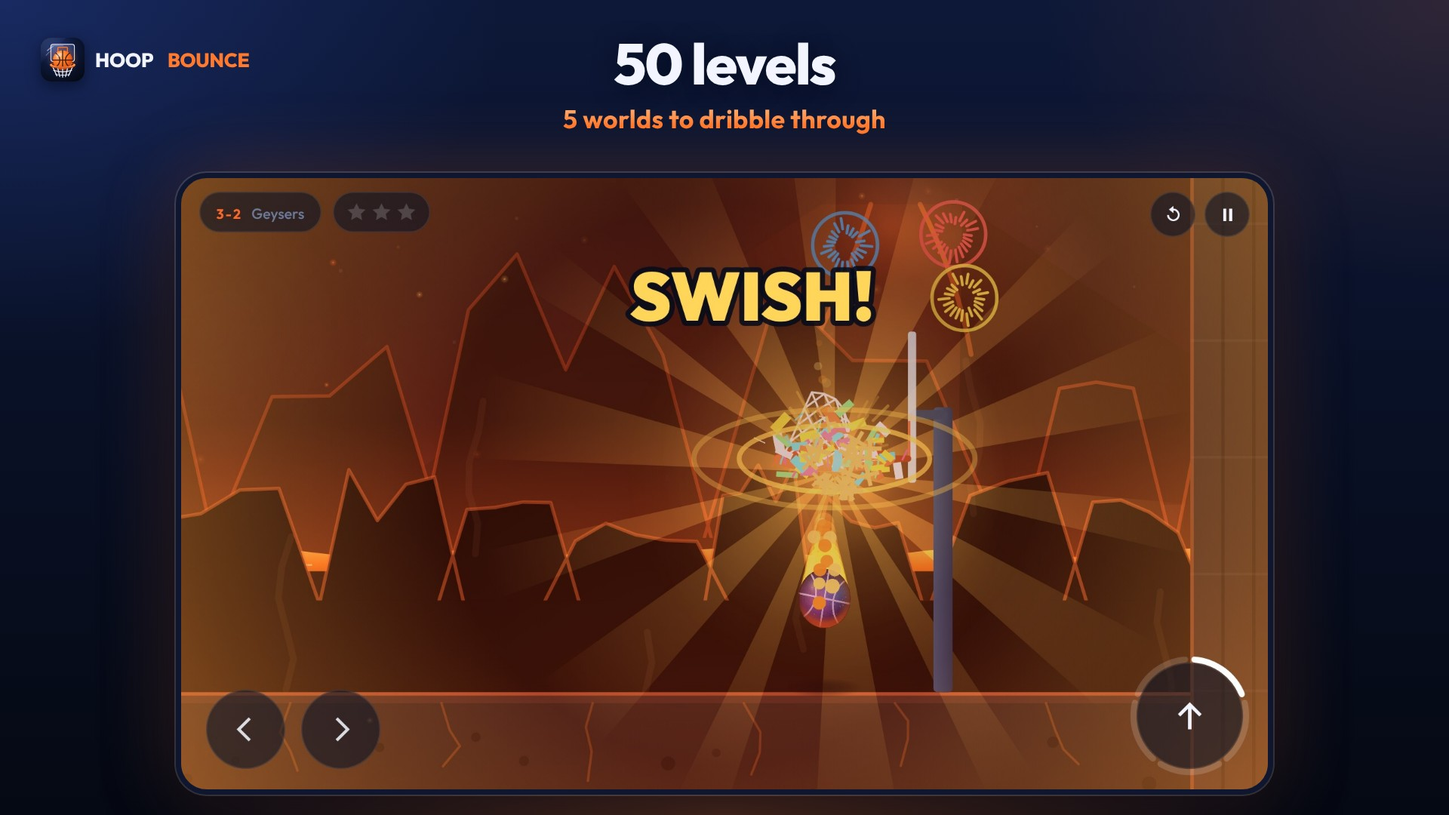
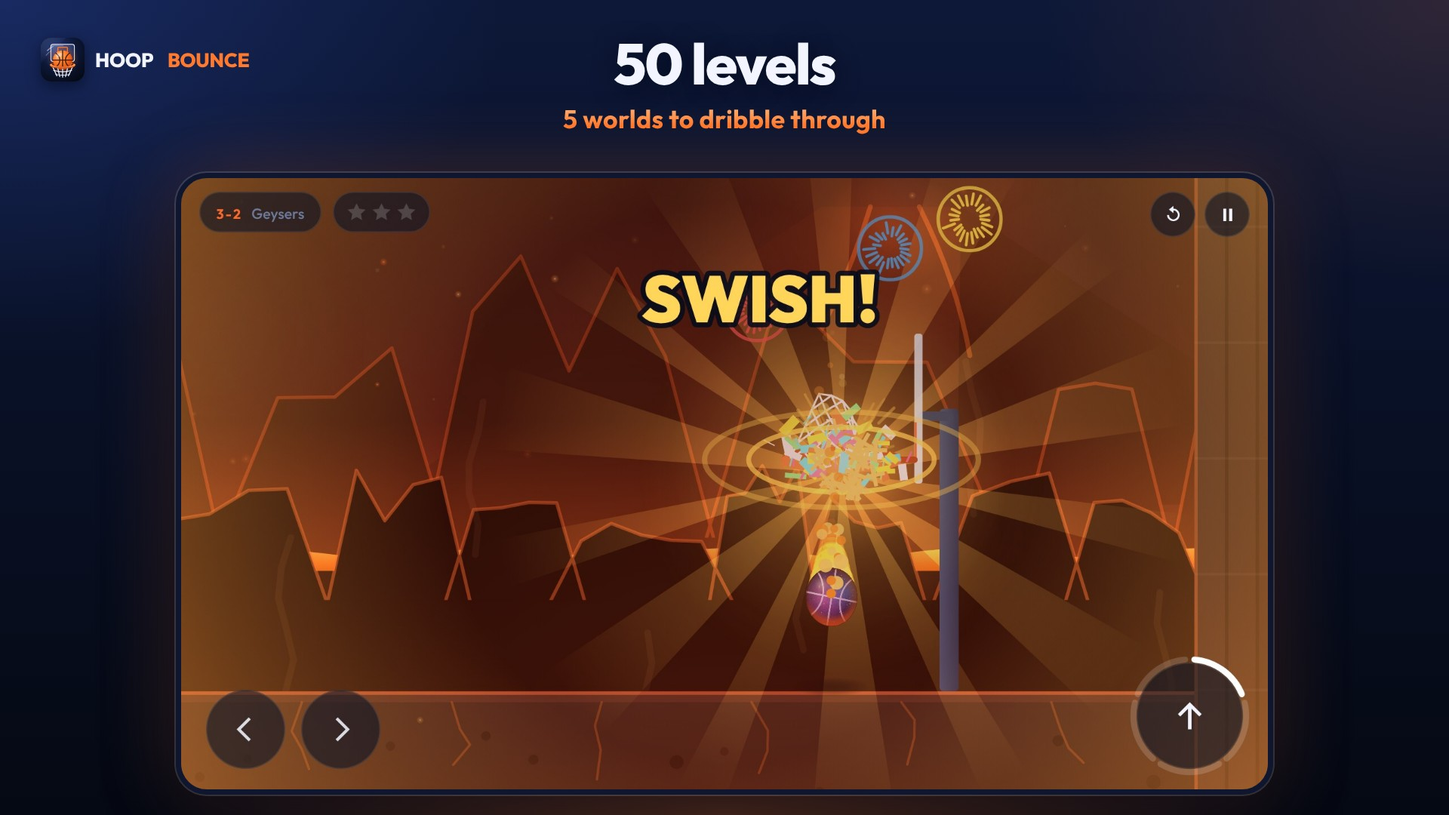
Fiche Google Play : 18 captures, dont les 5 mondes avec leurs pièges
- 10 captures de monde (2 par monde) titrées FR/EN/ES, plusieurs pièges à l'image
- screenshots.mjs : scènes de monde (cadrage, image figée), fichiers servis par Playwright, numérotation 01-18
- find-traps.mjs : repère les endroits riches en pièges
- SCREENSHOTS.md : répartition téléphone / tablette 7" / tablette 10" ; docs de la fiche et PROJECT.md à jour

Claude-Session: https://claude.ai/code/session_01Y34DbnMVTkq3CwrsUMcnBD

diff --git a/hoop-bounce/store/screenshots/raw/fr/sheet.html b/hoop-bounce/store/screenshots/raw/fr/sheet.html
@@ -1,0 +1,1 @@
+<body style="margin:0;background:#111;display:grid;grid-template-columns:1fr 1fr;gap:6px;padding:6px;font:14px sans-serif;color:#fff"><div><img src="file:///home/user/Videojuego/hoop-bounce/store/screenshots/raw/fr/02-city-a.jpg" style="width:100%"><div>02-city-a</div></div><div><img src="file:///home/user/Videojuego/hoop-bounce/store/screenshots/raw/fr/03-snow-a.jpg" style="width:100%"><div>03-snow-a</div></div><div><img src="file:///home/user/Videojuego/hoop-bounce/store/screenshots/raw/fr/04-volcano-a.jpg" style="width:100%"><div>04-volcano-a</div></div><div><img src="file:///home/user/Videojuego/hoop-bounce/store/screenshots/raw/fr/05-forest-a.jpg" style="width:100%"><div>05-forest-a</div></div><div><img src="file:///home/user/Videojuego/hoop-bounce/store/screenshots/raw/fr/06-space-a.jpg" style="width:100%"><div>06-space-a</div></div><div><img src="file:///home/user/Videojuego/hoop-bounce/store/screenshots/raw/fr/10-ghost.jpg" style="width:100%"><div>10-ghost</div></div><div><img src="file:///home/user/Videojuego/hoop-bounce/store/screenshots/raw/fr/14-city-b.jpg" style="width:100%"><div>14-city-b</div></div><div><img src="file:///home/user/Videojuego/hoop-bounce/store/screenshots/raw/fr/15-snow-b.jpg" style="width:100%"><div>15-snow-b</div></div><div><img src="file:///home/user/Videojuego/hoop-bounce/store/screenshots/raw/fr/16-volcano-b.jpg" style="width:100%"><div>16-volcano-b</div></div><div><img src="file:///home/user/Videojuego/hoop-bounce/store/screenshots/raw/fr/17-forest-b.jpg" style="width:100%"><div>17-forest-b</div></div><div><img src="file:///home/user/Videojuego/hoop-bounce/store/screenshots/raw/fr/18-space-b.jpg" style="width:100%"><div>18-space-b</div></div><div><img src="file:///home/user/Videojuego/hoop-bounce/store/screenshots/raw/fr/01-gameplay.jpg" style="width:100%"><div>01-gameplay</div></div></body>

diff --git a/hoop-bounce/store/screenshots/fr/sheet.html b/hoop-bounce/store/screenshots/fr/sheet.html
@@ -1,0 +1,1 @@
+<body style="margin:0;background:#111;display:grid;grid-template-columns:1fr 1fr;gap:6px;padding:6px;font:14px sans-serif;color:#fff"><div><img src="file:///home/user/Videojuego/hoop-bounce/store/screenshots/fr/11-chest.jpg" style="width:100%"><div>11-chest</div></div><div><img src="file:///home/user/Videojuego/hoop-bounce/store/screenshots/fr/12-achievements.jpg" style="width:100%"><div>12-achievements</div></div><div><img src="file:///home/user/Videojuego/hoop-bounce/store/screenshots/fr/13-collection.jpg" style="width:100%"><div>13-collection</div></div><div><img src="file:///home/user/Videojuego/hoop-bounce/store/screenshots/fr/14-city-b.jpg" style="width:100%"><div>14-city-b</div></div><div><img src="file:///home/user/Videojuego/hoop-bounce/store/screenshots/fr/15-snow-b.jpg" style="width:100%"><div>15-snow-b</div></div><div><img src="file:///home/user/Videojuego/hoop-bounce/store/screenshots/fr/16-volcano-b.jpg" style="width:100%"><div>16-volcano-b</div></div><div><img src="file:///home/user/Videojuego/hoop-bounce/store/screenshots/fr/17-forest-b.jpg" style="width:100%"><div>17-forest-b</div></div><div><img src="file:///home/user/Videojuego/hoop-bounce/store/screenshots/fr/18-space-b.jpg" style="width:100%"><div>18-space-b</div></div></body>

diff --git a/hoop-bounce/store/screenshots/sheet.html b/hoop-bounce/store/screenshots/sheet.html
@@ -1,0 +1,1 @@
+<body style="margin:0;background:#111;display:grid;grid-template-columns:1fr 1fr;gap:6px;padding:6px;font:14px sans-serif;color:#fff"><div><img src="file:///home/user/Videojuego/hoop-bounce/store/screenshots/fr/04-volcano-a.jpg" style="width:100%"><div>fr/04-volcano-a</div></div><div><img src="file:///home/user/Videojuego/hoop-bounce/store/screenshots/fr/05-forest-a.jpg" style="width:100%"><div>fr/05-forest-a</div></div><div><img src="file:///home/user/Videojuego/hoop-bounce/store/screenshots/en/02-city-a.jpg" style="width:100%"><div>en/02-city-a</div></div><div><img src="file:///home/user/Videojuego/hoop-bounce/store/screenshots/es/06-space-a.jpg" style="width:100%"><div>es/06-space-a</div></div><div><img src="file:///home/user/Videojuego/hoop-bounce/store/screenshots/en/10-ghost.jpg" style="width:100%"><div>en/10-ghost</div></div><div><img src="file:///home/user/Videojuego/hoop-bounce/store/screenshots/es/18-space-b.jpg" style="width:100%"><div>es/18-space-b</div></div></body>

diff --git a/hoop-bounce/PROJECT.md b/hoop-bounce/PROJECT.md
@@ -520,7 +520,7 @@ présentation (son, vibrations, effets, caméra, interface) écoute. Les deux re
 | `tools/economy-sim.mjs` | ★ Phase 4 : **simulateur de l'économie** : des joueurs types (actif, occasionnel ; avec ou sans publicités) jouent N jours avec le vrai code (porte-monnaie, coffres, calendrier, roulette, missions, succès, Pass, boutique) et une horloge simulée. `node tools/economy-sim.mjs 30`. |
 | `tools/route-merge.mjs` | Fusionne les fichiers partiels de `route-check --part` dans `tests/fixtures/routes.json`. |
 | `tools/build-release.mjs` | ★ **Version publiée** : construit `dist/HoopBounce-<version>-release.aab` (Android App Bundle au format protobuf d'aapt2, module `base`, `BundleConfig.pb`, signé avec jarsigner) et l'APK release de la même version (apksigner), avec l'enveloppe `native/release/` et la clé d'import `native/release/keys/` ; vérifie identifiant, versions, clé (`native/release/upload-key.sha256`), permissions et contenu identique APK / AAB ; version sans SDK publicitaire (boutons de publicité masqués). |
-| `store/tools/*.mjs` | Fiche Google Play : `render-assets` (icônes Noël et intemporelle, bannières, icônes Android), `screenshots` (8 captures titrées, 3 langues), `make-ghost` (vrai fantôme pour la capture), `check-listing` (longueurs des textes). |
+| `store/tools/*.mjs` | Fiche Google Play : `render-assets` (icônes Noël et intemporelle, bannières, icônes Android), `screenshots` (18 captures titrées, 3 langues), `find-traps` (endroits riches en pièges), `make-ghost` (vrai fantôme pour la capture), `check-listing` (longueurs des textes). |
 | `tools/level-run.mjs` | ★ Phase 2 : joue un niveau **en entier** (tous les passages à la suite, du départ au panier) et mesure la durée experte → durée joueur estimée (× 1,4), comparée à la fourchette du monde. Utilisé par `tests/routes.test.mjs`. |
 | `tools/level-map.mjs` | ★ Phase 2 : plan PNG d'un niveau (géométrie, pièges, étoiles, panier) avec la trajectoire du pilote et les morts. |
 | `tools/tune.mjs` | ★ Phase 2 : balaie toutes les fenêtres de départ d'un passage chronométré (`--full` : état réel d'arrivée) pour choisir une fenêtre sûre. |
@@ -2217,9 +2217,13 @@ effets, illustrations, règles du logo (HOOP blanc / BOUNCE orange, toujours en 
   classique, ronde et adaptative).
 - **Bannière** 1024 × 500 (FR / EN / ES, Noël et intemporelle) : salle de basket la nuit, logo HOOP / BOUNCE,
   signature, trois repères (50 niveaux · 50 Trickshots · Hoop Pass), centre dégagé pour le bouton de la vidéo.
-- **8 captures** 1920 × 1080 avec titres marketing (FR / EN / ES) : 50 niveaux, 50 Trickshots, Débloquez des
-  skins, Complétez le Hoop Pass, Défiez votre fantôme (vrai fantôme du pilote expert), Ouvrez des coffres,
-  Relevez des défis, Votre collection.
+- **18 captures** 1920 × 1080 avec titres marketing (FR / EN / ES) : 50 niveaux ; **les 5 mondes avec leurs
+  pièges, 2 vues chacun** (Ville : presse et laser, scies ; Neige : blocs écraseurs, pont de glace qui tombe ;
+  Volcan : geysers en éruption, canons et boule de feu ; Forêt : rondin à pointes et tronc qui roule, rivière
+  aux lianes ; Espace : trou noir et plateformes clignotantes, gravité inversée avec astéroïdes et pics) ;
+  50 Trickshots, Complétez le Hoop Pass, Débloquez des skins, Défiez votre fantôme (vrai fantôme du pilote
+  expert), Ouvrez des coffres, Relevez des défis, Votre collection. Google Play en accepte 8 par type
+  d'appareil : répartition téléphone / tablette 7" / tablette 10" dans `store/SCREENSHOTS.md` (les 18 servent).
 - **Vidéo** : storyboard de 25 s (`store/VIDEO.md`) — logo, gameplay, Trickshot, skins et coffre, Hoop Pass,
   fantôme, succès, écran final.
 
@@ -2634,9 +2638,9 @@ Légende : ✅ Terminé · 🟡 En cours · 🔴 À faire
 
 ### Phase 9 — Publication 🟡 (tout est prêt, actions Play Console restantes)
 - ✅ Identité visuelle officielle (`store/BRAND.md`) ; icône refaite (Noël + intemporelle) ; bannières FR / EN / ES
-- ✅ 8 captures titrées × 3 langues ; storyboard vidéo ; textes FR / EN / ES et référencement
+- ✅ 18 captures titrées × 3 langues (dont les 5 mondes et leurs pièges) ; storyboard vidéo ; textes FR / EN / ES et référencement
 - ✅ Politique de confidentialité conforme à la 1.0.0 ; réponses aux formulaires (IARC, sécurité des données…)
-- ✅ **AAB release signé** (1.0.0, versionCode 15) + APK release de la même version ; clé d'import créée
+- ✅ **AAB release signé** (1.0.0, versionCode 16) + APK release de la même version ; clé d'import créée
 - ✅ `store/PUBLICATION.md` : ce qui est fait, ce qui reste
 - 🔴 Porteur du projet : sauvegarder la clé d'import, e-mail public, héberger la politique, remplir la Console
 - 🔴 Test fermé (12 testeurs × 14 jours si compte personnel récent), puis production
@@ -2648,7 +2652,7 @@ Légende : ✅ Terminé · 🟡 En cours · 🔴 À faire
 
 ### Fait ✅
 - ✅ **Préparation de la publication Google Play** : identité visuelle, icône (Noël + intemporelle), bannières,
-  8 captures titrées × 3 langues, storyboard vidéo, textes et référencement, politique de confidentialité,
+  18 captures titrées × 3 langues, storyboard vidéo, textes et référencement, politique de confidentialité,
   réponses aux formulaires, **AAB et APK release 1.0.0**, `store/PUBLICATION.md`
 - ✅ **Phase de finition (polish)** : scène de Noël vivante, neige réaliste, pression unifiée des boutons,
   pièce / gemme / étoile redessinées, coffres par rareté, traînée des ballons rares, nouveaux sons, fondus de
@@ -3058,6 +3062,36 @@ Légende : ✅ Terminé · 🟡 En cours · 🔴 À faire
 ---
 
 ## 11. Journal des modifications
+
+### 25/11/2026 — Fiche Google Play : 18 captures, dont les 5 mondes avec leurs pièges
+
+> À la demande du porteur du projet : plus de captures, chaque monde montré avec plusieurs pièges à l'image, en
+> plus du Hoop Pass et des autres écrans. Le jeu n'est pas modifié (pas de nouvelle version APK / AAB).
+
+**Ajouté**
+- 10 captures de monde (2 par monde), titrées en FR / EN / ES, chacune avec 2 à 3 pièges visibles :
+  Ville 1-9 (presse à pointes + laser) et 1-7 (trois scies) ; Neige 2-7 (blocs de glace écraseurs) et 2-4 (pont de
+  dalles qui tombent, pics) ; Volcan 3-7 (trois geysers en éruption, lave) et 3-4 (canons, boule de feu, dalles
+  fragiles) ; Forêt 4-10 (rondin à pointes, tronc qui roule) et 4-2 (lianes au-dessus de la rivière) ; Espace 5-9
+  (trou noir, plateformes qui clignotent) et 5-8 (gravité inversée, astéroïdes, tapis de pics).
+- `store/tools/find-traps.mjs` : repère les fenêtres de 17 unités où le plus de pièges différents sont visibles.
+
+**Modifié**
+- `store/tools/screenshots.mjs` : scènes de monde (`spot` : ballon posé, caméra tenue sur les pièges, hors des
+  boutons tactiles ; textes d'aide masqués ; image figée au bon moment — geysers à pleine hauteur, boule de feu
+  en vol) ; fichiers servis par Playwright (plus de serveur local) ; captures renumérotées 01 → 18 (Trickshot 07,
+  Pass 08, skins 09, fantôme 10, coffre 11, succès 12, collection 13) ; plus de texte d'aide sur la capture du
+  fantôme.
+- `store/SCREENSHOTS.md` : les 18 captures et la répartition conseillée (8 au plus par appareil) : téléphone
+  01·02·04·07·08·03·05·06, tablette 7" 16·14·09·15·10·17·11·18, tablette 10" 01·07·08·09·12·13·11·10.
+- `store/LISTING.md`, `CHECKLIST.md`, `PUBLICATION.md`, `README.md` : 18 captures et leur répartition.
+
+**Vérifié**
+- 18 × 3 langues relues image par image : ballon visible et hors des boutons, pièges lisibles, aucun texte d'aide,
+  titres dans la police Outfit ; format 1920 × 1080 (règles Google Play inchangées).
+
+**Reste à faire**
+- Porteur du projet : envoyer les captures dans la Play Console selon la répartition de `store/SCREENSHOTS.md`.
 
 ### 25/11/2026 — Trickshot : retour au fonctionnement d'origine du bouton ↺ Recommencer (APK de test v15, AAB 1.0.0 build 16)
 

diff --git a/hoop-bounce/store/SCREENSHOTS.md b/hoop-bounce/store/SCREENSHOTS.md
@@ -2,8 +2,10 @@
 
 ## Ce qui est prêt
 
-**8 captures** prises dans le **vrai jeu**, en 3 langues, au format **1920 × 1080** (paysage 16:9, JPEG), chacune
-avec un **titre marketing** et un sous-titre, dans l'identité du jeu (`store/BRAND.md`) :
+**18 captures** prises dans le **vrai jeu**, en 3 langues, au format **1920 × 1080** (paysage 16:9, JPEG), chacune
+avec un **titre marketing** et un sous-titre, dans l'identité du jeu (`store/BRAND.md`) : les **5 mondes avec
+leurs pièges** (2 vues par monde), le gameplay, le Trickshot, le Hoop Pass, les skins, le Mode Fantôme, les
+coffres, les succès et la collection.
 
 | Dossier | Contenu |
 |---|---|
@@ -12,24 +14,52 @@ avec un **titre marketing** et un sous-titre, dans l'identité du jeu (`store/BR
 
 | N° | Fichier | Titre (FR · EN · ES) | Ce qu'on voit |
 |---|---|---|---|
-| 1 | `01-gameplay.jpg` | **50 niveaux** · 50 levels · 50 niveles | Monde 3 (Volcan) : panier « SWISH ! », rayons, confettis |
-| 2 | `02-trickshot.jpg` | **50 Trickshots** · 50 trickshots · 50 trickshots | carte 30 « Portails en chaîne », le ballon en plein vol vers le panier |
-| 3 | `03-skins.jpg` | **Débloquez des skins** · Unlock skins · Desbloquea skins | boutique, ballon légendaire « Diamant » en aperçu, objets légendaires |
-| 4 | `04-pass.jpg` | **Complétez le Hoop Pass** · Complete the Hoop Pass · Completa el Hoop Pass | Hoop Pass de Noël, niveau 10, récompenses à récupérer |
-| 5 | `05-ghost.jpg` | **Défiez votre fantôme** · Race your ghost · Reta a tu fantasma | niveau 1-2 : le joueur sur le trampoline, son fantôme bleuté devant lui |
-| 6 | `06-chest.jpg` | **Ouvrez des coffres** · Open chests · Abre cofres | ouverture d'un coffre légendaire (rayons, éclair, pièces) |
-| 7 | `07-achievements.jpg` | **Relevez des défis** · Take on challenges · Supera desafíos | page Succès (62 succès, catégories, récompenses) |
-| 8 | `08-collection.jpg` | **Votre collection** · Your collection · Tu colección | collection : ballons, rebonds, traînées, objet légendaire |
+| 1 | `01-gameplay.jpg` | **50 niveaux** · 50 levels · 50 niveles | Volcan 3-2 : panier « SWISH ! », rayons, confettis |
+| 2 | `02-city-a.jpg` | **Monde 1 · La Ville** · World 1 · The City · Mundo 1 · La Ciudad | 1-9 : presse à pointes, laser vertical, 2 étoiles |
+| 3 | `03-snow-a.jpg` | **Monde 2 · La Neige** · World 2 · The Snow · Mundo 2 · La Nieve | 2-7 : deux blocs de glace écraseurs, étoile |
+| 4 | `04-volcano-a.jpg` | **Monde 3 · Le Volcan** · World 3 · The Volcano · Mundo 3 · El Volcán | 3-7 : trois geysers de feu en éruption, lave, dalles qui s'effondrent |
+| 5 | `05-forest-a.jpg` | **Monde 4 · La Forêt** · World 4 · The Forest · Mundo 4 · El Bosque | 4-10 : rondin à pointes qui se balance, tronc qui roule |
+| 6 | `06-space-a.jpg` | **Monde 5 · L'Espace** · World 5 · Space · Mundo 5 · El Espacio | 5-9 : trou noir, plateformes qui clignotent, vide |
+| 7 | `07-trickshot.jpg` | **50 Trickshots** · 50 trickshots · 50 trickshots | carte 30 « Portails en chaîne », le ballon en plein vol vers le panier |
+| 8 | `08-pass.jpg` | **Complétez le Hoop Pass** · Complete the Hoop Pass · Completa el Hoop Pass | Hoop Pass de Noël, niveau 10, récompenses à récupérer |
+| 9 | `09-skins.jpg` | **Débloquez des skins** · Unlock skins · Desbloquea skins | boutique, ballon légendaire « Diamant » en aperçu, objets légendaires |
+| 10 | `10-ghost.jpg` | **Défiez votre fantôme** · Race your ghost · Reta a tu fantasma | niveau 1-2 : le joueur sur le trampoline, son fantôme bleuté devant lui |
+| 11 | `11-chest.jpg` | **Ouvrez des coffres** · Open chests · Abre cofres | ouverture d'un coffre légendaire (rayons, éclair, pièces) |
+| 12 | `12-achievements.jpg` | **Relevez des défis** · Take on challenges · Supera desafíos | page Succès (62 succès, catégories, récompenses) |
+| 13 | `13-collection.jpg` | **Votre collection** · Your collection · Tu colección | collection : ballons, rebonds, traînées, objet légendaire |
+| 14 | `14-city-b.jpg` | **Les scies de la Ville** · City saws · Las sierras de la Ciudad | 1-7 : trois scies circulaires qui montent et descendent |
+| 15 | `15-snow-b.jpg` | **Le pont de glace** · The ice bridge · El puente de hielo | 2-4 : dalles de glace qui tombent, pics au bout |
+| 16 | `16-volcano-b.jpg` | **Les canons du Volcan** · Volcano cannons · Los cañones del Volcán | 3-4 : canons dans la lave, boule de feu, dalles fragiles |
+| 17 | `17-forest-b.jpg` | **La rivière aux lianes** · The vine river · El río de lianas | 4-2 : deux lianes au-dessus de la rivière |
+| 18 | `18-space-b.jpg` | **Le monde à l'envers** · Upside-down world · El mundo al revés | 5-8 : ballon collé au plafond (gravité inversée), astéroïdes, tapis de pics |
 
-Ordre conseillé sur la fiche : **1 → 8** (les 3 premières sont les plus vues : gameplay, Trickshot, skins).
-Téléphone **et** tablettes 7" / 10" : les mêmes 8 fichiers (le format 1920 × 1080 convient aux deux).
+## Répartition conseillée sur la fiche
+
+Google Play accepte **8 captures au plus par type d'appareil** (téléphone, tablette 7", tablette 10") ; le format
+1920 × 1080 convient aux trois. Les 18 captures se répartissent ainsi (les 3 premières de chaque liste sont les
+plus vues) :
+
+| Type d'appareil | Captures, dans l'ordre | Idée |
+|---|---|---|
+| **Téléphone** | 01 · 02 · 04 · 07 · 08 · 03 · 05 · 06 | le jeu d'abord : gameplay, les 5 mondes et leurs pièges, Trickshot, Hoop Pass |
+| **Tablette 7"** | 16 · 14 · 09 · 15 · 10 · 17 · 11 · 18 | les autres pièges des mondes, skins, fantôme, coffres |
+| **Tablette 10"** | 01 · 07 · 08 · 09 · 12 · 13 · 11 · 10 | les modes et la collection : Trickshot, Pass, skins, succès, collection, coffres |
+
+Ainsi, les 18 images sont toutes utilisées. S'il faut une seule liste (par exemple pour un autre store) : **1 → 8**.
 
 ## Les refaire
 
-`node store/tools/screenshots.mjs fr` (puis `en`, `es`). Le script prépare un profil de joueur crédible (Ville et
-Neige terminées, 6 niveaux du Volcan, 48 250 pièces, 18 Trickshots, Hoop Pass niveau 10, objets rares et
-légendaires équipés) et un **vrai fantôme** enregistré par le pilote expert (`node store/tools/make-ghost.mjs
-city-02` → `store/tools/data/ghost-city-02.json`), puis prend chaque capture au bon moment.
+`node store/tools/screenshots.mjs fr` (puis `en`, `es`) — environ 1 min 30 par langue. Le script prépare un profil
+de joueur crédible (Ville et Neige terminées, 6 niveaux du Volcan, 48 250 pièces, 18 Trickshots, Hoop Pass niveau
+10, objets rares et légendaires équipés) et un **vrai fantôme** enregistré par le pilote expert
+(`node store/tools/make-ghost.mjs city-02` → `store/tools/data/ghost-city-02.json`), puis prend chaque capture au
+bon moment.
+
+Pour les scènes de monde (`spot` dans `SCENES`) : le ballon est posé à un endroit sûr, la caméra cadre plusieurs
+pièges à la fois, hors des boutons tactiles, les textes d'aide sont masqués, et l'image est **figée** au moment
+voulu (geysers à pleine hauteur, boule de feu en vol) avant la capture. Pour trouver d'autres endroits riches en
+pièges : `node store/tools/find-traps.mjs [monde]` (les fenêtres de 17 unités qui montrent le plus de pièges
+différents).
 
 ## Règles de Google Play (respectées)
 

diff --git a/hoop-bounce/store/PUBLICATION.md b/hoop-bounce/store/PUBLICATION.md
@@ -16,7 +16,7 @@
 | **Icône** | 512 × 512 : version **Noël** (neige discrète) et version **intemporelle** | `store/icon/` |
 | | Icônes de l'application (classique, ronde, adaptative) : version intemporelle | dans l'AAB |
 | **Bannière** | 1024 × 500, FR / EN / ES, versions Noël et intemporelle | `store/feature-graphic/` |
-| **Captures** | 8 captures 1920 × 1080 avec titres marketing, FR / EN / ES | `store/screenshots/` |
+| **Captures** | 18 captures 1920 × 1080 avec titres marketing, FR / EN / ES : les 5 mondes et leurs pièges (2 vues chacun), Trickshot, Hoop Pass, skins, fantôme, coffres, succès, collection | `store/screenshots/` |
 | **Vidéo** | Storyboard de 25 s, plan par plan | `store/VIDEO.md` |
 | **Textes** | Nom, description courte, description complète (FR / EN / ES), longueurs vérifiées | `store/LISTING.md` |
 | **Référencement** | Mots-clés principaux et secondaires, catégorie, tags | `store/LISTING.md` § Référencement |
@@ -49,7 +49,8 @@ Environ une heure dans la Play Console, puis 14 jours de test fermé si le compt
 5. **Contenu de l'application** : remplir les formulaires avec les réponses de `store/CHECKLIST.md` § 4 à 6
    (politique de confidentialité, accès, annonces = Non, public cible 13+, IARC, sécurité des données = aucune).
 6. **Fiche du Store** : coller les textes de `store/LISTING.md`, envoyer l'icône (Noël), la bannière (Noël) et les
-   8 captures ; ajouter les traductions EN et ES ; catégorie **Arcade**, tags, coordonnées.
+   captures (8 par type d'appareil : téléphone, tablette 7", tablette 10" — répartition dans `store/SCREENSHOTS.md`) ;
+   ajouter les traductions EN et ES ; catégorie **Arcade**, tags, coordonnées.
 7. **Test fermé** (compte personnel récent) : créer la piste, importer l'AAB, inviter 12 testeurs, attendre
    14 jours, demander l'accès à la production.
 8. **Production** : créer la release avec le même AAB (ou un AAB au versionCode supérieur s'il y a eu des

diff --git a/hoop-bounce/store/CHECKLIST.md b/hoop-bounce/store/CHECKLIST.md
@@ -14,7 +14,7 @@ Légende : ✅ **prêt** dans le projet · ✍ **à renseigner** dans la Play
 | Clé d'import (upload key) + mot de passe | ✅ 🔑 | `native/release/keys/` (non versionné) — **à copier en lieu sûr** |
 | Icône 512 × 512 (Noël + intemporelle) | ✅ | `store/icon/icon-512-winter.png` · `icon-512.png` |
 | Bannière 1024 × 500 (Noël + intemporelle, FR/EN/ES) | ✅ | `store/feature-graphic/` |
-| 8 captures 1920 × 1080 (FR/EN/ES) | ✅ | `store/screenshots/{fr,en,es}/` |
+| 18 captures 1920 × 1080 (FR/EN/ES) : 5 mondes et leurs pièges, modes, Pass… | ✅ | `store/screenshots/{fr,en,es}/` |
 | Nom, description courte, description complète (FR/EN/ES) | ✅ ✍ | `store/LISTING.md` |
 | Vidéo YouTube (facultative) | 🔑 | storyboard : `store/VIDEO.md` |
 | Catégorie, tags | ✍ | Jeux › Arcade ; tags : `store/LISTING.md` |
@@ -110,7 +110,8 @@ partagés avec Google pour la publicité) **avant** l'envoi de cette mise à jou
 - [ ] Nom, descriptions : `store/LISTING.md` (FR par défaut, puis Traductions › anglais (en-US), espagnol (es-ES)).
 - [ ] Icône : `store/icon/icon-512-winter.png` pendant la saison de Noël, puis `icon-512.png`.
 - [ ] Bannière : `store/feature-graphic/feature-graphic-winter-fr.png` (et `-en`, `-es` dans les traductions).
-- [ ] Captures téléphone : `store/screenshots/fr/01 … 08` ; tablettes 7" et 10" : les mêmes.
+- [ ] Captures (8 au plus par appareil, répartition dans `store/SCREENSHOTS.md`) : téléphone 01, 02, 04, 07, 08, 03,
+      05, 06 ; tablette 7" 16, 14, 09, 15, 10, 17, 11, 18 ; tablette 10" 01, 07, 08, 09, 12, 13, 11, 10.
 - [ ] Vidéo : lien YouTube (facultatif, `store/VIDEO.md`).
 - [ ] Paramètres du Store : catégorie **Arcade**, tags (`store/LISTING.md`), coordonnées (§ 2).
 

diff --git a/hoop-bounce/store/README.md b/hoop-bounce/store/README.md
@@ -6,7 +6,7 @@
 | `CHECKLIST.md` | Checklist complète : fiche, contenu de l'application, classification, sécurité des données, version, AAB, tests |
 | `LISTING.md` | Nom, description courte, description complète (FR, EN, ES), référencement (ASO), catégorie, tags |
 | `BRAND.md` | Identité visuelle officielle : palette, typographie, boutons, cartes, effets, illustrations, icône |
-| `SCREENSHOTS.md` | Les 8 captures, leurs titres, l'ordre conseillé, comment les refaire |
+| `SCREENSHOTS.md` | Les 18 captures (5 mondes et leurs pièges, modes, Pass…), leurs titres, la répartition téléphone / tablettes, comment les refaire |
 | `VIDEO.md` | Storyboard de la vidéo de 25 s |
 | `icon/` | Icône Google Play 512 × 512 : `icon-512-winter.png` (saison de Noël), `icon-512.png` (intemporelle) |
 | `feature-graphic/` | Bannière 1024 × 500 (FR, EN, ES) : `feature-graphic-winter-*.png` (Noël) et `feature-graphic-*.png` |
@@ -16,6 +16,7 @@
 | `tools/render-assets.mjs` | Régénère icônes, bannières, icônes et écrans de démarrage Android |
 | `tools/screenshots.mjs` | Régénère les captures dans le vrai jeu (`node store/tools/screenshots.mjs fr`) |
 | `tools/make-ghost.mjs` | Enregistre un vrai fantôme (pilote expert) pour la capture du Mode Fantôme |
+| `tools/find-traps.mjs` | Repère dans les niveaux les endroits où le plus de pièges sont visibles à la fois (captures des mondes) |
 | `tools/check-listing.mjs` | Vérifie les longueurs des textes de la fiche |
 
 Construction de la version publiée : `node tools/build-release.mjs` → `dist/HoopBounce-1.0.0-16-release.aab` (Google

diff --git a/hoop-bounce/store/LISTING.md b/hoop-bounce/store/LISTING.md
@@ -203,7 +203,7 @@ icône ou d'autres captures quand le jeu aura des visiteurs.
 |---|---|
 | Icône (512 × 512, PNG 32 bits) | Saison de Noël : `store/icon/icon-512-winter.png` · après Noël : `store/icon/icon-512.png` |
 | Bannière (1024 × 500, PNG 24 bits) | Saison de Noël : `store/feature-graphic/feature-graphic-winter-<langue>.png` · après Noël : `feature-graphic-<langue>.png` |
-| Captures téléphone (8, 1920 × 1080) | `store/screenshots/<langue>/01 … 08` (ordre : `store/SCREENSHOTS.md`) |
-| Captures tablettes 7" et 10" (facultatives) | les mêmes 8 fichiers (16:9, 1920 × 1080 : acceptés pour les tablettes) |
+| Captures téléphone (8 au plus, 1920 × 1080) | `store/screenshots/<langue>/` : 01, 02, 04, 07, 08, 03, 05, 06 (`store/SCREENSHOTS.md`) |
+| Captures tablettes 7" et 10" (facultatives) | 7" : 16, 14, 09, 15, 10, 17, 11, 18 · 10" : 01, 07, 08, 09, 12, 13, 11, 10 (18 captures en tout, 16:9 acceptées pour les tablettes) |
 | Vidéo (facultative) | lien YouTube — storyboard prêt : `store/VIDEO.md` |
 | Coordonnées | voir `store/PUBLICATION.md` § Informations développeur |
